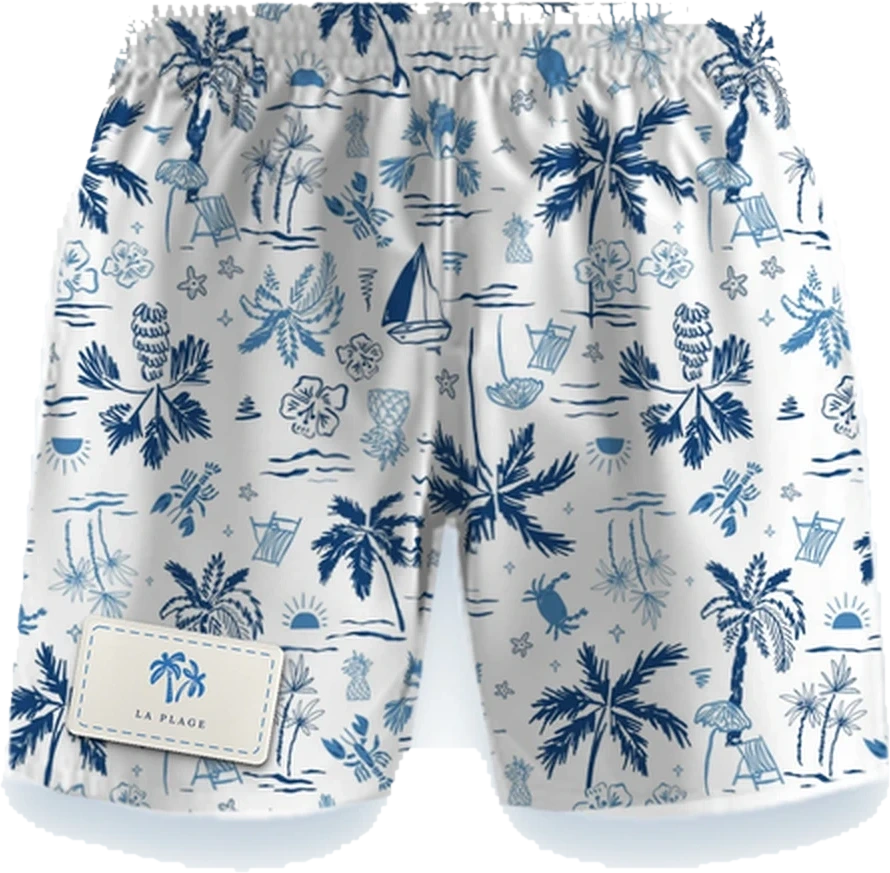
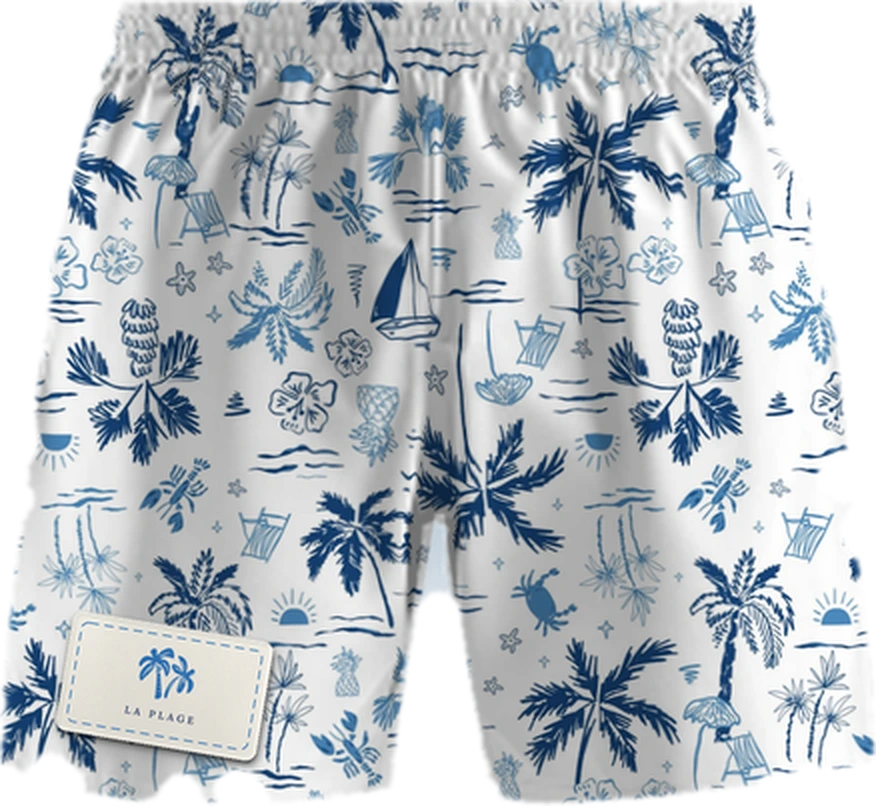
Clean cut-outs for Rivage and Corail, 'The first wash', all prices 430.000 d
- Rivage and Corail Shorts re-cut from the shape of the garment (traced from
  its print, holes filled), removing the white glow from the mockups; product
  photos regenerated from the clean cut-outs.
- 'The first drop' heading is now 'The first wash'.
- Every product is now 430.000 d.

Claude-Session: https://claude.ai/code/session_01GhwZTPJHk9MYRzMyNk4UYg

diff --git a/index.html b/index.html
@@ -10,7 +10,7 @@
   <link rel="preconnect" href="https://fonts.googleapis.com">
   <link rel="preconnect" href="https://fonts.gstatic.com" crossorigin>
   <link rel="stylesheet" href="https://fonts.googleapis.com/css2?family=Cinzel:wght@400;500&family=Cormorant+Garamond:ital,wght@0,300;1,300&family=DM+Serif+Display:ital@0;1&family=Playfair+Display:ital,wght@1,500&family=Inter:wght@300;400;500&family=Lora:ital,wght@0,400;0,500;1,400;1,500&display=swap">
-  <link rel="stylesheet" href="styles.css?v=38">
+  <link rel="stylesheet" href="styles.css?v=39">
   <script>document.documentElement.classList.replace('no-js','js')</script>
 </head>
 <body>
@@ -83,12 +83,12 @@
       <ul class="glass-row drift__row" data-glass-row aria-label="Featured pieces"></ul>
     </section>
 
-    <!-- The first drop -->
+    <!-- The first wash -->
     <section class="drop section" id="drop" aria-labelledby="drop-title">
       <div class="drop__head wrap">
         <div>
           <p class="label label--index" data-animate="fade-up"><span>01</span> The drop</p>
-          <h2 class="display-2" id="drop-title" data-animate="words" data-delay="100">The first <em>drop</em></h2>
+          <h2 class="display-2" id="drop-title" data-animate="words" data-delay="100">The first <em>wash</em></h2>
         </div>
         <p class="drop__note" data-animate="fade-up" data-delay="200"><span>Inspiration</span>Faded beach-cabin stripes, hibiscus in two blues, and palms sketched by hand.</p>
       </div>
@@ -316,8 +316,8 @@
     </button>
   </div>
 
-  <script src="intro.js?v=38" defer></script>
-  <script src="ocean.js?v=38" defer></script>
-  <script src="main.js?v=38" defer></script>
+  <script src="intro.js?v=39" defer></script>
+  <script src="ocean.js?v=39" defer></script>
+  <script src="main.js?v=39" defer></script>
 </body>
 </html>
